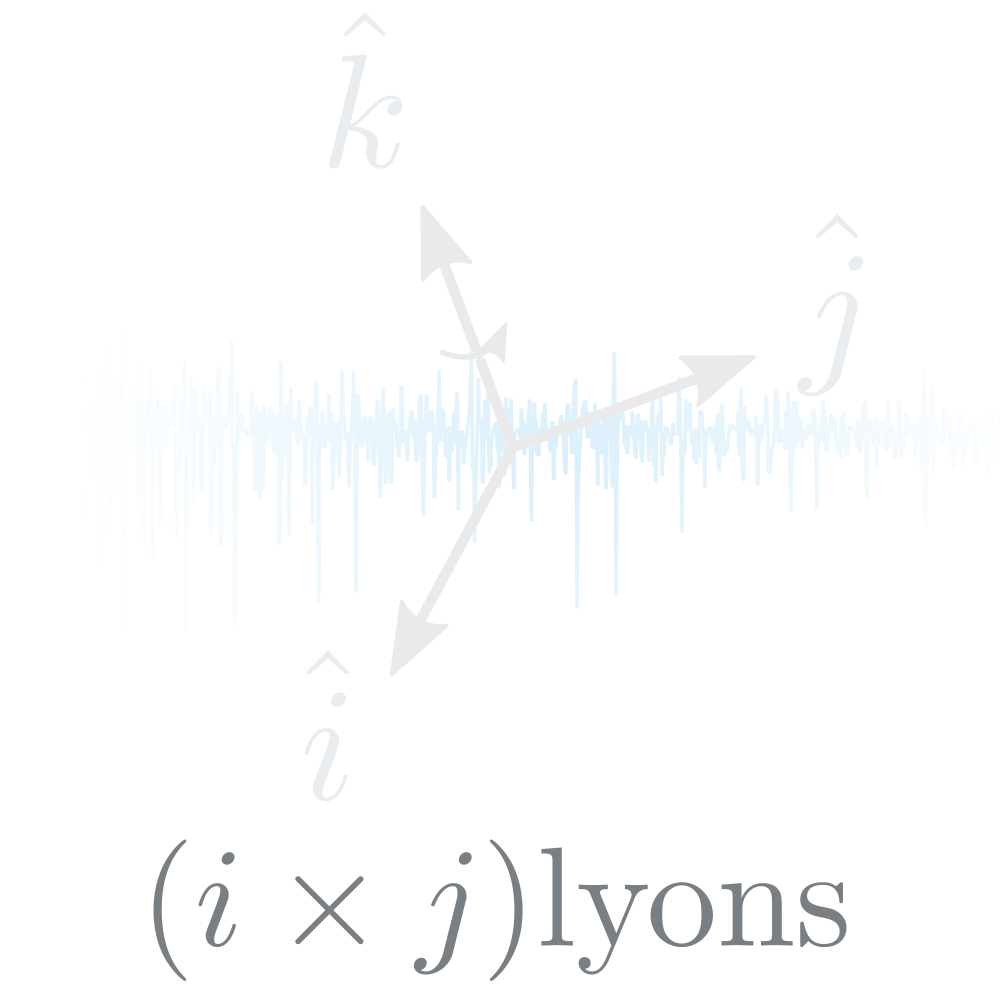
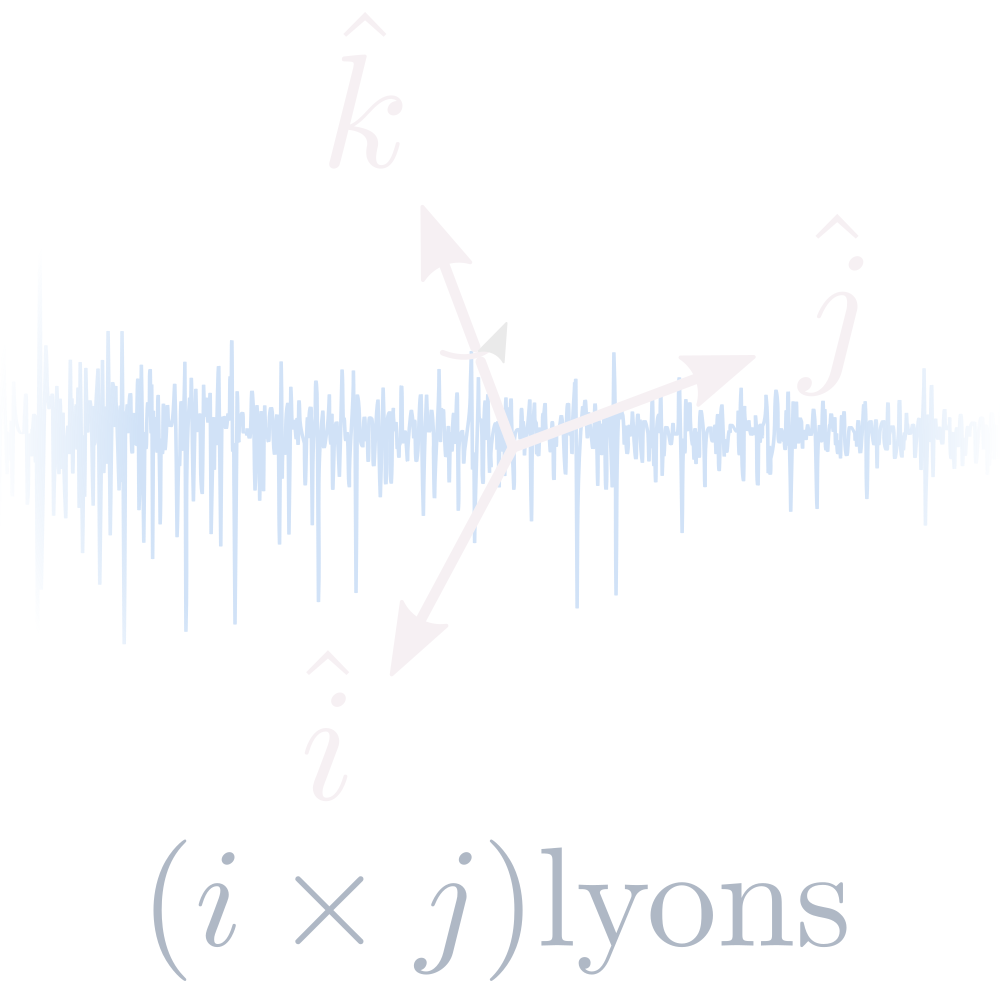
Improved color scheme.

diff --git a/theme/static/css/style.css b/theme/static/css/style.css
@@ -127,7 +127,7 @@ aside {
   top: 0;
   left: 0;
   padding: 30px;
-  background-color: #333;
+  background-color: #2f343f;
   color: #eaedef;
   box-shadow: 0 0 2px black;
   text-align: center;
@@ -175,15 +175,15 @@ aside > h2 {
 
 .nav a
 {
-    color: #eaedef;
+    color: #afb8c5;
     text-decoration: none;
     transition: all .3s ease-in-out;
 }
 
 .nav a:hover
 {
-    color: #222;
-    background-color: #eaedef;
+    color: #f6f0f3;
+    background-color: #5294e2;
 }
 
 .list-bare
